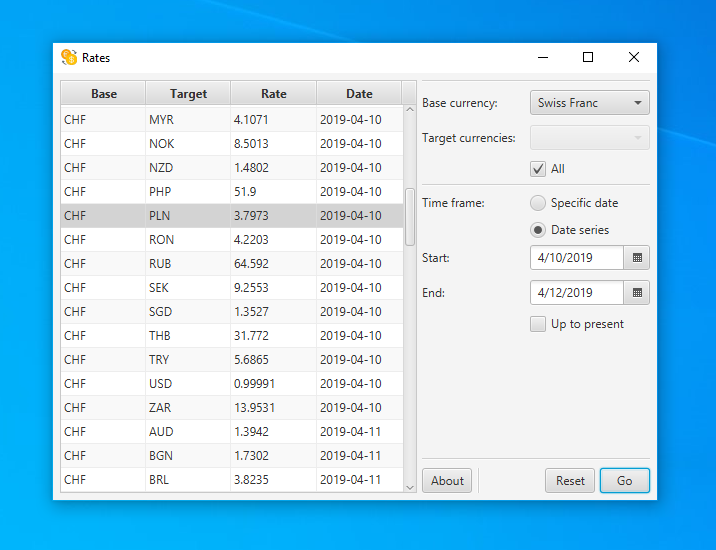
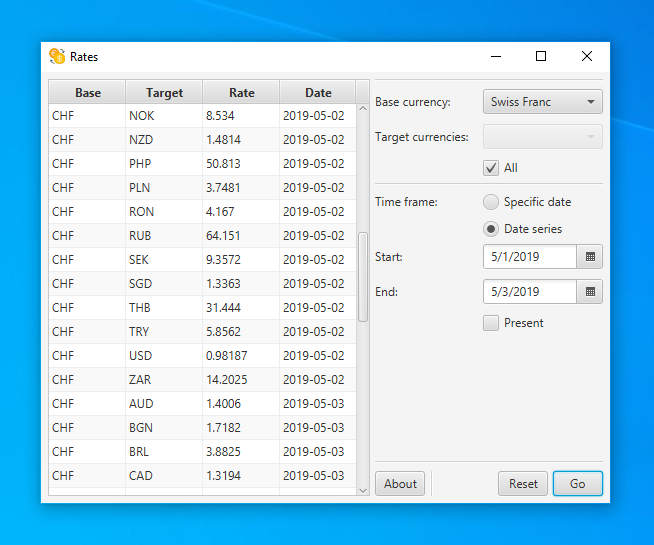
Minor UI tweak

Changed region(s): [[0.0306, 0.0624, 0.948, 0.9358], [0.7339, 0.156, 0.8257, 0.2183], [0.7951, 0.0936, 0.8563, 0.1248]]

diff --git a/src/main/java/io/github/altoukhovmax/rates/gui/controller/MainViewController.java b/src/main/java/io/github/altoukhovmax/rates/gui/controller/MainViewController.java
@@ -50,7 +50,7 @@ public final class MainViewController implements Initializable {
 
     private @FXML DatePicker seriesStartDatePicker;
     private @FXML DatePicker seriesEndDatePicker;
-    private @FXML CheckBox upToPresentCheckbox;
+    private @FXML CheckBox presentDateCheckbox;
 
     private final Alert errorAlert;
     private final Alert aboutAlert;
@@ -100,7 +100,7 @@ public final class MainViewController implements Initializable {
 
         latestDateCheckbox.selectedProperty().addListener((observable, oldValue, newValue) -> specificDatePicker.setDisable(newValue));
 
-        upToPresentCheckbox.selectedProperty().addListener((observable, oldValue, newValue) -> seriesEndDatePicker.setDisable(newValue));
+        presentDateCheckbox.selectedProperty().addListener((observable, oldValue, newValue) -> seriesEndDatePicker.setDisable(newValue));
 
         baseColumn.setCellValueFactory(cellDataFeatures -> new ReadOnlyStringWrapper(cellDataFeatures.getValue().baseCurrencyCode()));
         targetColumn.setCellValueFactory(cellDataFeatures -> new ReadOnlyStringWrapper(cellDataFeatures.getValue().targetCurrencyCode()));
@@ -126,7 +126,7 @@ public final class MainViewController implements Initializable {
             LocalDate startDate = seriesStartDatePicker.getValue();
             LocalDate endDate = seriesEndDatePicker.getValue();
             return (startDate != null) && (!startDate.isAfter(LocalDate.now())) &&
-                   ((endDate != null) && (endDate.isAfter(startDate)) || upToPresentCheckbox.isSelected());
+                   ((endDate != null) && (endDate.isAfter(startDate)) || presentDateCheckbox.isSelected());
         }
         throw new IllegalStateException("Invalid user input state"); // Should not (and probably never will) happen
     }
@@ -151,7 +151,7 @@ public final class MainViewController implements Initializable {
 
         seriesStartDatePicker.setValue(null);
         seriesEndDatePicker.setValue(null);
-        upToPresentCheckbox.setSelected(false);
+        presentDateCheckbox.setSelected(false);
     }
 
     @FXML
@@ -165,7 +165,7 @@ public final class MainViewController implements Initializable {
                             .toArray(String[]::new);
             Optional<List<ExchangeRate>> fetchedExchangeRates = specificDatePanelToggle.isSelected() ?
                     (latestDateCheckbox.isSelected() ? service.fetchExchangeRates(base, targets) : service.fetchExchangeRates(base, specificDatePicker.getValue(), targets)) :
-                    service.fetchExchangeRates(base, seriesStartDatePicker.getValue(), (upToPresentCheckbox.isSelected() ? null : seriesEndDatePicker.getValue()), targets);
+                    service.fetchExchangeRates(base, seriesStartDatePicker.getValue(), (presentDateCheckbox.isSelected() ? null : seriesEndDatePicker.getValue()), targets);
             fetchedExchangeRates.ifPresentOrElse(rates -> dataView.getItems().setAll(rates), () -> {
                 errorAlert.setContentText("Failed to fetch the requested exchange rates. This could happen due to " +
                                           "an internal service error, a client-side error, or simply a bad network " +
